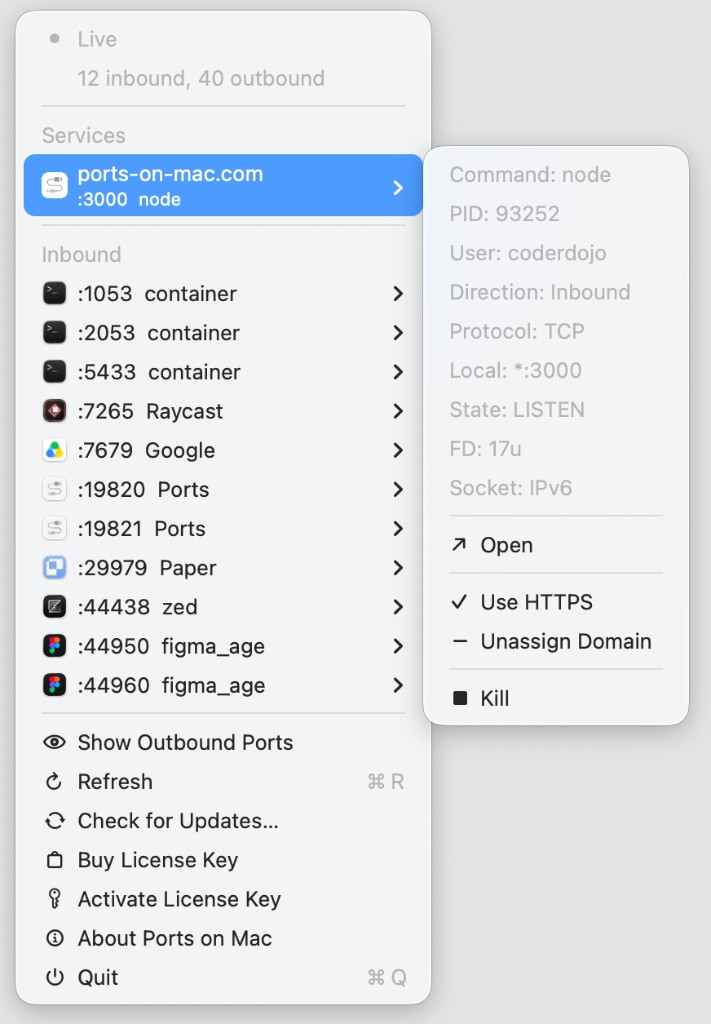
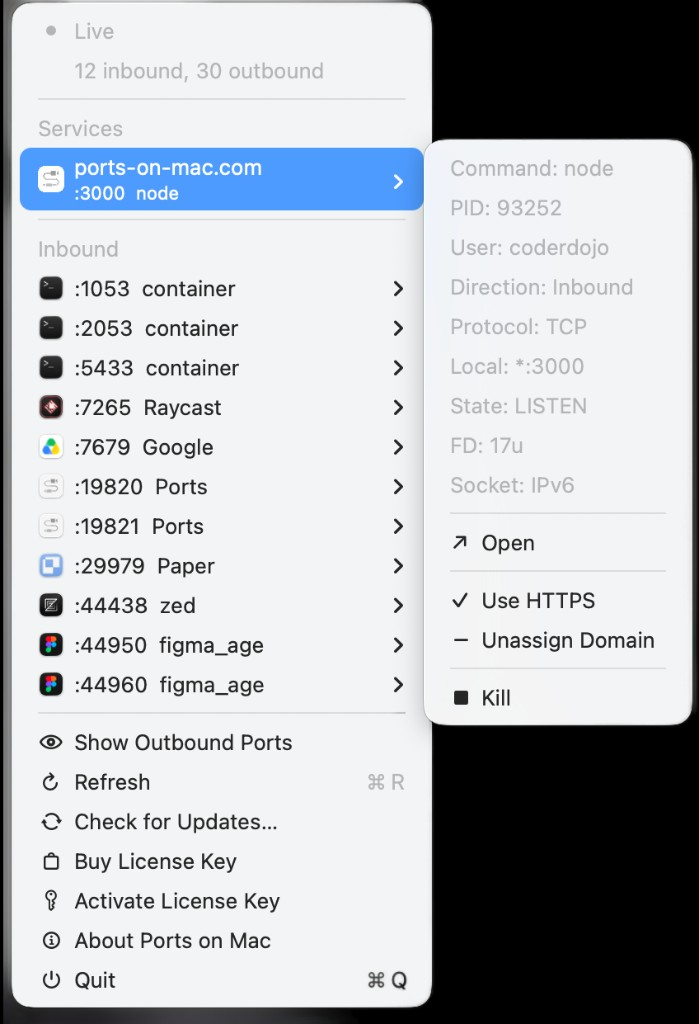
replace screenshot

diff --git a/web/src/app/page.tsx b/web/src/app/page.tsx
@@ -54,15 +54,15 @@ export default function Home() {
                     7 trial days · $10 one time
                 </p>
             </section>
-            <aside className="flex w-full items-center justify-center bg-[#E3E4E4] px-6 py-16 xl:min-h-svh">
+            <aside className="flex w-full items-center justify-center bg-neutral-100 px-6 py-16 xl:min-h-svh">
                 <Image
                     src="/screenshot.png"
                     alt="Ports on Mac menu bar showing live inbound ports and a domain assigned to a local server"
-                    width={711}
+                    width={699}
                     height={1024}
                     priority
                     sizes="(min-width: 1280px) 40vw, 70vw"
-                    className="h-auto w-[70vw] object-contain xl:w-auto xl:max-h-[70vh]"
+                    className="h-auto w-[70vw] object-contain xl:h-[70vh] xl:w-auto"
                 />
             </aside>
         </main>
